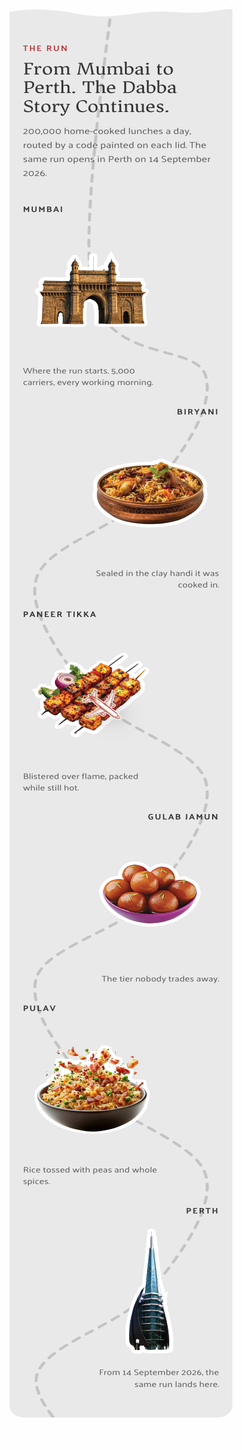
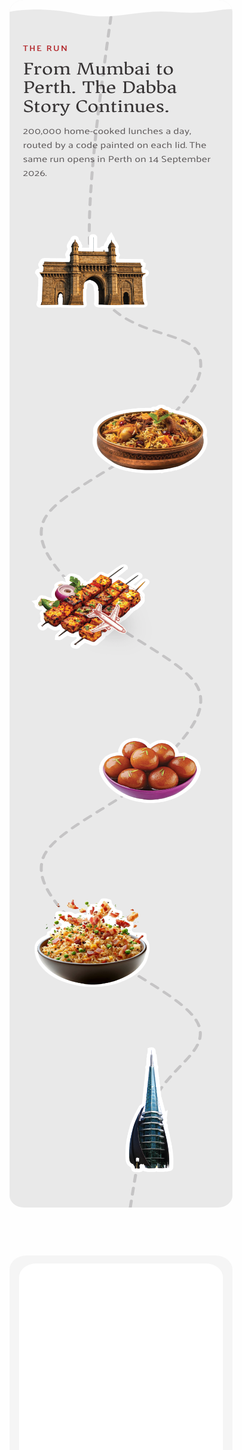
Slow the mobile run's dabba: start 0.6 -> 1, ease 0.12 -> 0.055
Two levers, because there are only two -- the route's length and the scroll it
maps over are both consequences of the column's geometry. Measured at 390 it
was 3083px of path over 1987px of scroll, 1.55px of flight per pixel of page,
which is why the sprite outran the reader.

start: 1 spreads the flight over the section's whole pass instead of its
height minus 0.4 of a viewport -- 2325px of scroll, so 1.33px per pixel, a 15%
real reduction. The reason 0.6 exists on desktop (at 0.85 the dabba dipped
below the fold on the route's first dip) does not apply here: the phone
route's first fifth runs straight down through the copy above the first card.

ease: 0.055 makes the dabba trail 17.2x the per-frame step against the
desktop's 7.3x, so a flick glides for 2.5s rather than 1.1s. Precisely: a
sustained slow scroll moves the sprite at the mapped rate whatever ease is --
the lag is a constant offset, not a slower speed. So ease buys the
flick-and-watch case and start buys the sustained one.

Both are per-instance options now; desktop keeps 0.6 / 0.12.

Verified every pin still reachable at 390x844, 375x667, 360x640 and 430x932 --
progress reaches exactly 1.0000 and all six cards are above the fold when the
dabba arrives, margin 17-39px. Desktop unchanged at 1440.

diff --git a/new-WT/index.html b/new-WT/index.html
@@ -1150,8 +1150,8 @@
          cards' own positions. Everything else — the progress mapping, the
          tangent, the nearest-point stop matching, the bidirectional reveals —
          was already layout-agnostic, so neither variant needed its own copy.
-         `buildPath` is the only difference between the two calls. */
-      const initRunRoute = (sectionId, pathId, planeId, buildPath) => {
+         The options are the only difference between the two calls. */
+      const initRunRoute = (sectionId, pathId, planeId, { buildPath, ease, start }) => {
         const section = document.getElementById(sectionId);
         const path = document.getElementById(pathId);
         const plane = document.getElementById(planeId);
@@ -1209,13 +1209,19 @@
              flown, and the dabba dropped ~96px below the fold and came back.
              Starting later keeps the whole flight on screen.
 
-             Both lines read START. They have to: with the start moved to 0.6
-             and travel still carrying the old 0.85's remainder, progress
-             topped out at 0.914 when the pin released — so the last 9% of the
-             route, Perth's pin included, simply never ran. */
-          const START = 0.6;
-          const startTop = innerHeight * START;
-          const travel = Math.max(t.height - innerHeight * (1 - START), 1);
+             Both lines read it. They have to: with the start moved to 0.6 and
+             travel still carrying the old 0.85's remainder, progress topped out
+             at 0.914 when the pin released — so the last 9% of the route,
+             Perth's pin included, simply never ran.
+
+             The phone passes 1.0 instead, which spreads the same flight over the
+             section's whole pass rather than its height minus 0.4 of a viewport:
+             2325px of scroll instead of 1987, so 17% slower per pixel. The
+             reason 0.6 exists does not apply down here — the phone route's first
+             fifth runs straight down through the copy above the first card, so
+             there is no dip to keep on screen. */
+          const startTop = innerHeight * start;
+          const travel = Math.max(t.height - innerHeight * (1 - start), 1);
           target = clamp((startTop - t.top) / travel, 0, 1);
           return true;
         };
@@ -1403,8 +1409,21 @@
           passStops(p);
         };
 
+        /* How hard the dabba chases the scroll. It is the only real speed
+           control there is: the route's length and the scroll it is mapped over
+           are both fixed by the column's own geometry, and on the phone that
+           works out at 3083px of path over 1987px of scroll — 1.55px of flight
+           per pixel of page, which is why the sprite outran the reader. Making
+           it genuinely 1:1 would need another ~1100px of column, i.e. 276px
+           between cards, which is a page of white space.
+
+           So the phone lags instead: 0.055 against the desktop's 0.12 means the
+           dabba trails a flick and glides in after it rather than tracking it
+           frame for frame. Same distance, half the apparent speed. Pins pop off
+           the smoothed value, so they land as the dabba actually arrives rather
+           than when the scroll says it should have. */
         const loop = () => {
-          current += (target - current) * 0.12;
+          current += (target - current) * ease;
           place(current);
           if (Math.abs(target - current) > 0.0002) requestAnimationFrame(loop);
           else {
@@ -1467,8 +1486,8 @@
       /* Both are always in the DOM; each one's read() returns false while its
          own section is display:none, so only the variant on screen is driven,
          and crossing 767 hands over on the next resize. */
-      initRunRoute("run", "run-path", "run-plane", false);
-      initRunRoute("run-m", "mrun-path", "mrun-plane", true);
+      initRunRoute("run", "run-path", "run-plane", { buildPath: false, ease: 0.12, start: 0.6 });
+      initRunRoute("run-m", "mrun-path", "mrun-plane", { buildPath: true, ease: 0.055, start: 1 });
 
       /* Per-element entrance reveal for the run's pins and copy. Separate from
          revealOnScroll above because that one is a single-shot trigger for a

diff --git a/new-WT/BUILD_LOG.md b/new-WT/BUILD_LOG.md
@@ -272,3 +272,51 @@ and by checking the file, not the script's own output.
 - Desktop untouched at 1440: viewBox 1728×2400, path length 8956, phone route inert.
 - Reduced motion: all six pins opacity 1, transform none. No console errors, no horizontal overflow.
 - Rendered and read the whole section at 390.
+
+---
+
+## 2026-08-26 — Mobile run: the dabba slowed down
+
+Asked for: "thodi speed kam". Two levers, because there are only two.
+
+The route's length and the scroll it maps over are both consequences of the
+column's geometry, so neither is free to change. Measured at 390: **3083px of
+path over 1987px of scroll — 1.55px of flight per pixel of page**, which is why
+the sprite outran the reader.
+
+### `start` 0.6 → 1 (phone only)
+
+`travel = H − innerHeight × (1 − start)`. At `start: 1` the flight spreads over
+the section's whole pass instead of its height minus 0.4 of a viewport: **2325px
+of scroll instead of 1987**, so 1.33px of path per pixel — a **15% real
+reduction** in the sustained rate.
+
+The reason 0.6 exists on desktop does not apply here. It was set from 0.85
+because at 0.85 the desktop section is still low on screen while the route's
+first dip is being flown, and the dabba dropped ~96px below the fold and came
+back. The phone route's first fifth runs straight down through the copy above the
+first card — there is no dip to keep on screen.
+
+### `ease` 0.12 → 0.055 (phone only)
+
+The lerp in `loop()`. At 0.055 the dabba trails **17.2× the per-frame step**
+against the desktop's 7.3×, and a flick glides for **2.52s** rather than 1.12s.
+
+Worth being precise about what this does and does not buy: during a *sustained*
+slow scroll the sprite moves at the mapped rate whatever `ease` is — the lag is a
+constant offset, not a slower speed. So `ease` buys the flick-and-watch case,
+which is most of mobile reading, and `start` buys the sustained case. Together, a
+flick reads at roughly half the old speed.
+
+Pins pop off the smoothed value, so they now land as the dabba actually arrives
+rather than when the scroll says it should have.
+
+### What is not available
+Going genuinely 1:1 (path length = scroll length) needs another ~1100px of
+column, i.e. **276px between cards**. That is a page of white space, so it is not
+on the table. Any further slowdown is bought at that exchange rate.
+
+### Verified
+- **Every pin still reachable** under the new mapping at **390×844, 375×667, 360×640, 430×932**: progress reaches exactly 1.0000 in every case and all six cards are above the fold when the dabba arrives — margin 17–39px, consistent because the section's height and the card spacing both scale with width.
+- Desktop instance unchanged at 1440: `start: 0.6`, `ease: 0.12`, viewBox 1728×2400, path 8956.
+- Phone route still in sync (viewBox = section box exactly), no console errors, no horizontal overflow.

diff --git a/new-WT/README.md b/new-WT/README.md
@@ -262,6 +262,32 @@ There are no stage labels or notes on the phone route — just the six die-cut
 images on the line, the way the desktop pins are. Each image's `alt` carries the
 identification.
 
+**Speed.** `initRunRoute`'s options carry `ease` and `start`, and between them
+they are the only speed controls there are — the route's length and the scroll it
+maps over are both consequences of the column's geometry.
+
+| | desktop | phone |
+| --- | --- | --- |
+| `start` | 0.6 | **1** |
+| `ease` | 0.12 | **0.055** |
+
+`start: 1` spreads the flight over the section's whole pass rather than its height
+minus 0.4 of a viewport — 2325px of scroll instead of 1987 at 390, so **1.33px of
+path per pixel of page instead of 1.55**. The reason 0.6 exists (at 0.85 the
+desktop dabba dipped below the fold on the route's first dip) does not apply here:
+the phone route's first fifth runs straight down through the copy above the first
+card.
+
+`ease` is the lerp in `loop()` — how hard the dabba chases the scroll. At 0.055
+it trails 17.2× the per-frame step against the desktop's 7.3×, and a flick glides
+for 2.5s rather than 1.1s. That is where most of the felt slowdown comes from: a
+sustained slow scroll moves the sprite at the mapped rate whatever `ease` is, so
+`ease` buys the flick-and-watch case, `start` buys the sustained one.
+
+Going genuinely 1:1 would need another ~1100px of column — 276px between cards —
+which is a page of white space, so it is not on the table. More slowdown means
+more gap, at that exchange rate.
+
 The dabba rides a **second overlay above the cards** (`z-index` 5 against their
 4, the line at 1). It has to: the route runs through the card centres, so the
 dabba is behind a card at exactly the moment it arrives at one. Desktop gets away
